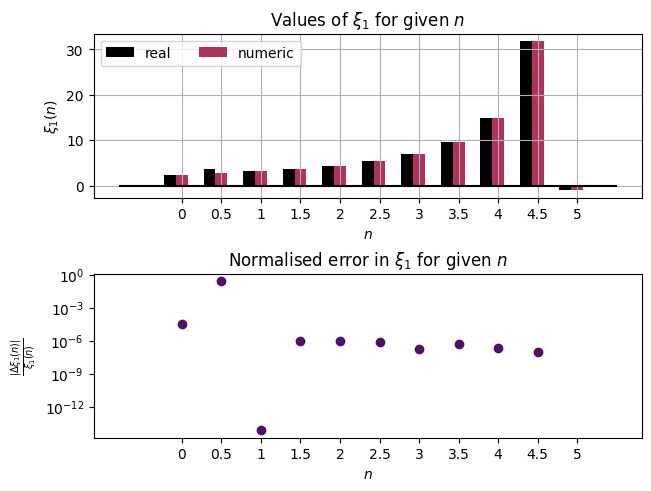
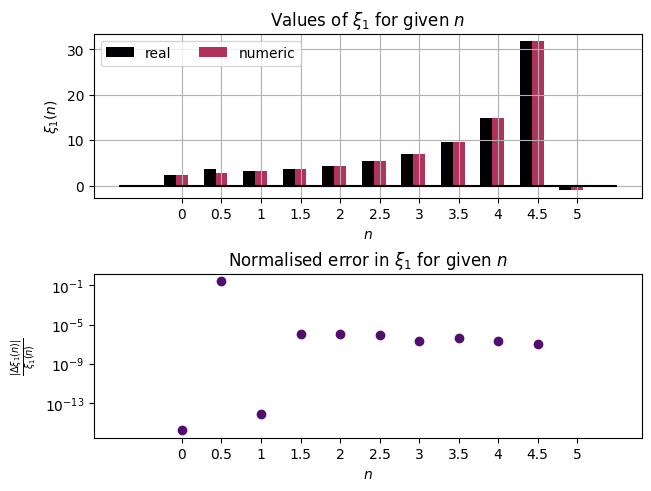
updated residuals for increased accuracy

diff --git a/CTA200_project/sample701.tex b/CTA200_project/sample701.tex
@@ -312,14 +312,14 @@ The solutions for other values of $n$ were then generated, shown in Figure \ref{
 
 \begin{figure}[ht!]
     \centering
-    \includegraphics[width=0.9\linewidth]{varn_residual.png}
+    \includegraphics[width=0.8\linewidth]{varn_residual.png}
     \caption{(top) Raw values of numerical values of $\xi_1$ compared to actual known values. $-1$ was given to $n=5$ as the solution diverges. (bottom) Error of $\xi_1$ between real and numerical solutions. $n=0.5$ gives an error of order $10^0$, whereas other values of $n$ return errors $<10^{-4}$}
     \label{fig:varn_res}
 \end{figure}
 
 \newpage
 
-The argument `max\_step' in the solve\_ivp function was crucial in reducing error. A smaller maximum step led to lower deviation from the true value of $\xi_1$. Figure \ref{fig:good_bad_res} shows the comparison between a solution where the maximum step was not defined and one that had a definite maximum step. Note that the error for $n=1$ is different than that of Figure \ref{fig:varn_res}. We do not know why the program generated different values for $\xi_1$ for different runs.
+The argument `max\_step' in the solve\_ivp function was crucial in reducing error. A smaller maximum step led to lower deviation from the true value of $\xi_1$. Figure \ref{fig:good_bad_res} shows the comparison between a solution where the maximum step was not defined and one that had a definite maximum step. Note that the errors for $n=0,1$ are different than that of Figure \ref{fig:varn_res}. This is because the residuals in Figure \ref{fig:good_bad_res} compared the numerical solutions to values of $\xi_1$ with finite significant figures, which are accurate up to order $10^{-5}$, whereas Figure \ref{fig:varn_res} uses the analytical values of $\xi_1$ for $n=0$ and $n=1$ to compare with the numerical methods.
 
 \begin{figure}[ht!]
     \centering